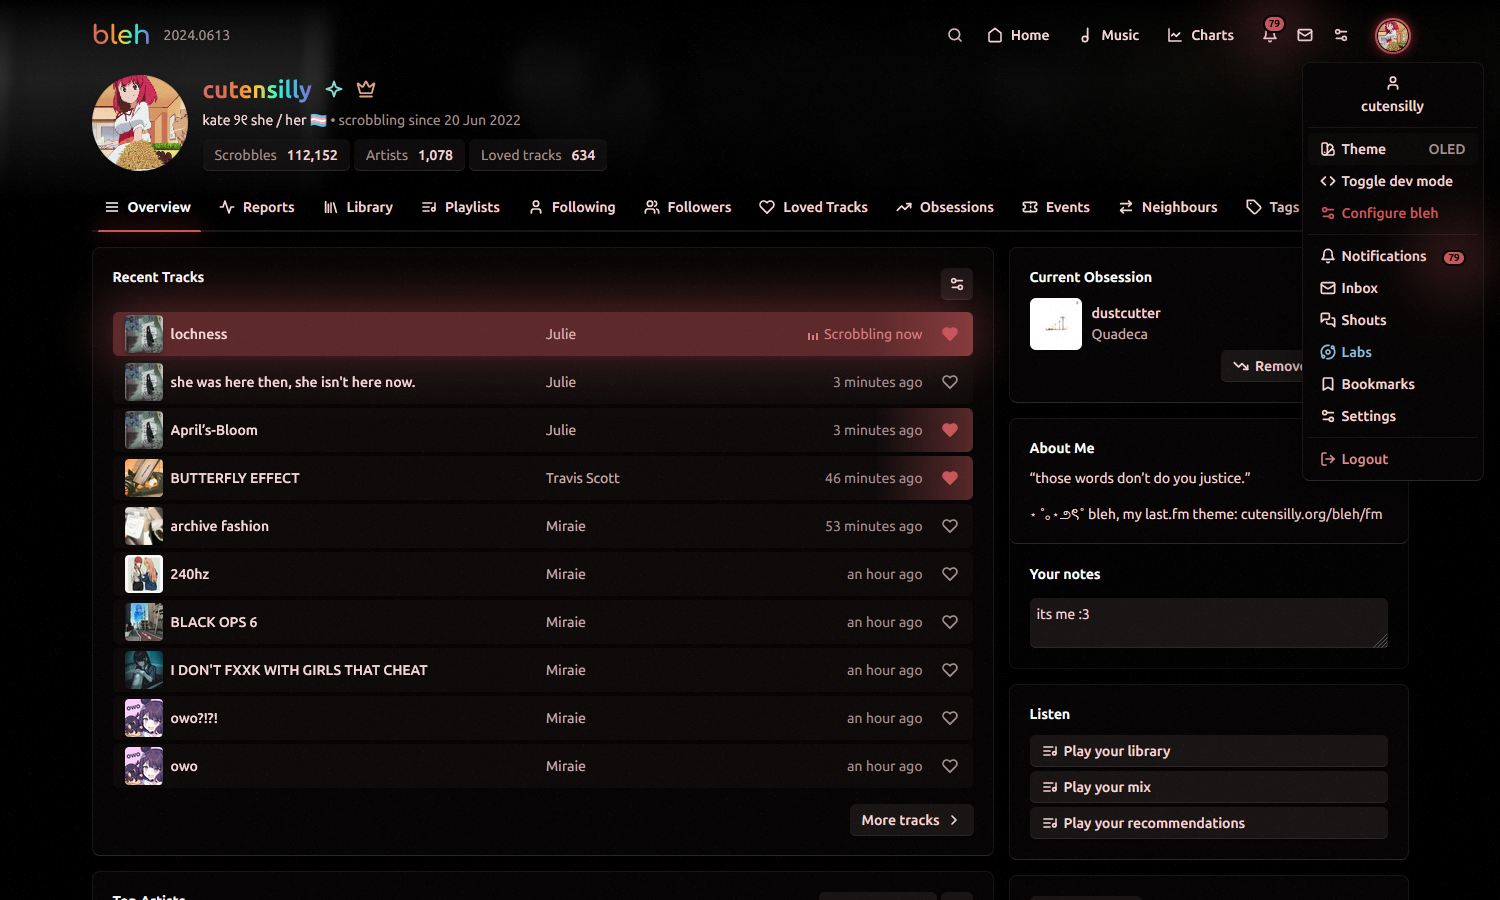
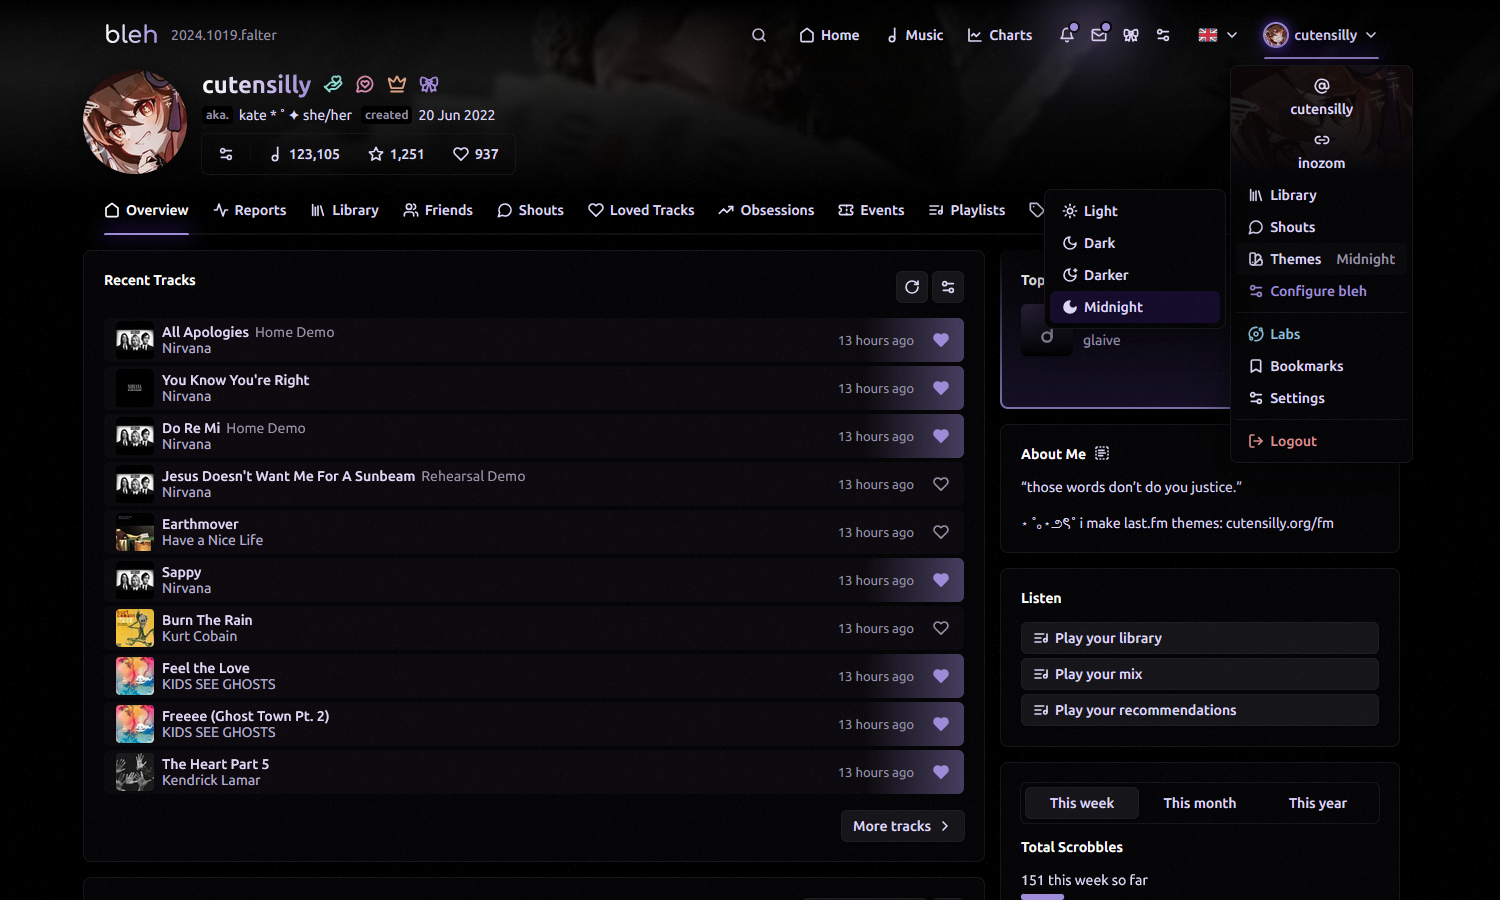
feat: big update

diff --git a/bleh/fm/index.html b/bleh/fm/index.html
@@ -150,19 +150,19 @@
                         <div class="main-image">
                             <img src="/img/bleh3-theme-oled.png">
                         </div>
-                        <figcaption><i class="icon w-16" data-lucide="user"></i>Profile (with oled theme selected and a custom hue)</figcaption>
+                        <figcaption><i class="icon w-16" data-lucide="user"></i>Profile (with Midnight theme selected)</figcaption>
                     </figure>
                     <figure>
                         <div class="main-image">
                             <img src="/img/bleh3-theme-light.png">
                         </div>
-                        <figcaption><i class="icon w-16" data-lucide="user"></i>Profile (with light theme selected and a custom hue)</figcaption>
+                        <figcaption><i class="icon w-16" data-lucide="user"></i>Profile (with Light theme selected and a custom colour)</figcaption>
                     </figure>
                     <figure>
                         <div class="main-image">
-                            <img src="/img/bleh2-settings.png">
+                            <img src="/img/bleh3-main-settings.png">
                         </div>
-                        <figcaption><i class="icon w-16" data-lucide="settings-2"></i>Theme settings (inside the site)</figcaption>
+                        <figcaption><i class="icon w-16" data-lucide="settings-2"></i>bleh settings (inside the site)</figcaption>
                     </figure>
                     <figure>
                         <div class="main-image">
@@ -199,18 +199,6 @@
                             <img src="/img/bleh2-obsession.png">
                         </div>
                         <figcaption><i class="icon w-16" data-lucide="activity"></i>Obsession view</figcaption>
-                    </figure>
-                    <figure>
-                        <div class="main-image">
-                            <img src="/img/bleh2-obsession-create.png">
-                        </div>
-                        <figcaption><i class="icon w-16" data-lucide="activity"></i>Obsession creation view</figcaption>
-                    </figure>
-                    <figure>
-                        <div class="main-image">
-                            <img src="/img/bleh2-event.png">
-                        </div>
-                        <figcaption><i class="icon w-16" data-lucide="calendar"></i>Event view</figcaption>
                     </figure>
                 </div>
                 <button class="btn icon-btn arrow-l" onclick="change(-1)">
@@ -283,7 +271,7 @@
             </div>
             <div class="text flex flex-column flex-gap" style="gap: 20px">
                 <h2>Refreshing, sleek design for all occasions</h2>
-                <p class="text-18">Try out the new grid and icon-based interface, complete with full in-built range of light to oled themes.</p>
+                <p class="text-18">Try out the new grid and icon-based interface, complete with full in-built range of light to dark themes.</p>
             </div>
         </section>
         <section class="side-by-side content right">
@@ -307,9 +295,31 @@
             </div>
             <div class="text flex flex-column flex-gap" style="gap: 20px">
                 <h2>Tailored to your liking</h2>
-                <p class="text-18">The extension includes an in-built settings page offering a<br><strong>colour customiser and accessibility options</strong>.</p>
+                <p class="text-18">The extension includes an in-built settings page offering a<br><strong>colour customiser, music tag decoder, seasonal system, accessibility options</strong> and more.</p>
                 <br>
                 <p class="text-18">Your settings can also be exported to share and imported hassle-free.</p>
+            </div>
+        </section>
+        <section class="side-by-side content right">
+            <div class="cover">
+                <div class="figure">
+                    <img src="/img/bleh3-colourful-bars.png">
+                </div>
+            </div>
+            <div class="text flex flex-column flex-gap" style="gap: 20px">
+                <h2>Colourful counts</h2>
+                <p class="text-18">Quickly view colour milestones at a glance by assigning total artist play counts to a large gradient.</p>
+            </div>
+        </section>
+        <section class="side-by-side content">
+            <div class="cover">
+                <div class="figure">
+                    <img src="/img/bleh3-language.png">
+                </div>
+            </div>
+            <div class="text flex flex-column flex-gap" style="gap: 20px">
+                <h2>Multi-language support</h2>
+                <p class="text-18">Powered by community-contributions, bleh aims to work alongside Last.fm's native language system to provide bleh translations.</p>
             </div>
         </section>
         <section class="side-by-side content right">

diff --git a/css/style-lfm.css b/css/style-lfm.css
@@ -156,20 +156,7 @@
 }
 header .logo a:not(.btn),
 .hi.kate {
-    --g-red: hsl(8, 62%, 60%);
-    --g-orange: hsl(24, 86%, 60%);
-    --g-yellow: hsl(44, 100%, 60%);
-    --g-green: hsl(163, 100%, 60%);
-    --g-blue: hsl(199, 79%, 60%);
-    --g-indigo: hsl(254, 46%, 60%);
-    background-image: linear-gradient(90deg,
-    var(--g-red) 16.6666%,
-    var(--g-orange) 33.333%,
-    var(--g-yellow) 50%,
-    var(--g-green) 66.6666%,
-    var(--g-blue) 83.3333%,
-    var(--g-indigo) 100%
-    );
+    background-image: linear-gradient(90deg, hsl(var(--c1)) 0%, hsl(var(--l3-c)) 100%);
     background-clip: text;
     -webkit-background-clip: text;
     -webkit-text-fill-color: transparent;

diff --git a/css/bleh.css b/css/bleh.css
@@ -42,8 +42,6 @@ figcaption {
     justify-content: center;
     align-items: center;
     gap: 6px;
-    text-transform: uppercase;
-    letter-spacing: 0.4px;
 
     .w-16 {
         --w: 14px;
